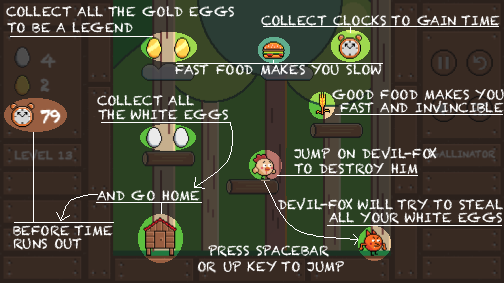
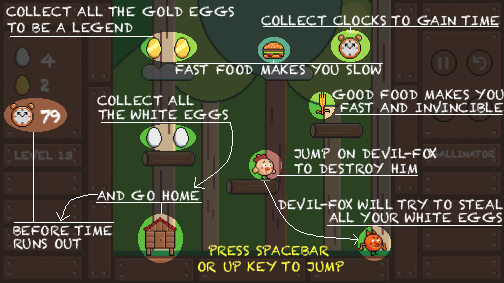
ok

Changed region(s): [[0.3869, 0.8481, 0.6845, 0.9611]]

diff --git a/scripts/game.js b/scripts/game.js
@@ -556,8 +556,11 @@ window.addEventListener("load",function() {
             x: Q.width/2, y: Q.height/2,w:Q.width,h:Q.height, fill: "rgba(0,0,0,0.8)"
           }));
 
-
-          var image = container.insert(new Q.Sprite({asset:"howtoplay.png",x:0, y: 0}));
+          if (Q.touchDevice){
+            var image = container.insert(new Q.Sprite({asset:"howtoplaymobile.png",x:0, y: 0}));
+          }else{
+            var image = container.insert(new Q.Sprite({asset:"howtoplay.png",x:0, y: 0}));
+          }
           //console.log("hola");
           //var buttonPause = container.insert(new Q.UI.Button({ asset:"gallinafrozenpause.png",x: 2, y: 2, family:"courier",align:"center",scale:5}));
           var buttonClose = container.insert(new Q.UI.Button({ asset:"close.png" ,x: 228, y: -79}));
@@ -657,7 +660,7 @@ window.addEventListener("load",function() {
     Q.load("gallinafrozen.png,muelle.png,muelle.json,portada.png,nextlevelgood.png,nextlevelsuper.png,nextlevellose.png,hudegg.png,tickegg.png,hudreloj.png,hudegggolden.png,egggolden.png,egggolden.json,egg.png,egg.json,extras.png,extras.json,pause.png,restart.png,mute.png,unmute.png,muteMusic.png,play.png,next.png,maderabackground.png,gallina.png,gallina.json,   home.png,home.json,levels.png,choselevel.png,close.png,changeDirection.png,changeDirection.json,loseEggs.png,loseEggs.json,zorro.png,zorro.json,plataformas.png,plataformas.json");
     Q.load("frozen.mp3,eat.mp3,supersalto.mp3,egg.mp3,salto.mp3,egggolden.mp3,home.mp3,clock.mp3,changeDirection.mp3,loseEggs.mp3,fox.mp3,ohh.mp3");
     Q.load("papageno.mp3,papagenofast.mp3");
-    Q.loadTMX("howtoplay.png,howbutton.png,level1.tmx,level2.tmx,level3.tmx,level4.tmx,level5.tmx,level6.tmx,level7.tmx,level8.tmx,level9.tmx,level10.tmx,level11.tmx,level12.tmx,level13.tmx,level14.tmx,level15.tmx,level16.tmx,level17.tmx,level18.tmx,level19.tmx,level20.tmx,background1-1.png,background2-1.png,background3-1.png,background4-1.png,background1-2.png,background2-2.png,background3-2.png,background4-2.png,background1-3.png,background2-3.png,background3-3.png,background4-3.png,background1-4.png,background2-4.png,background3-4.png,background4-4.png,background1-5.png,background2-5.png,background3-5.png,background4-5.png,background1-6.png,background2-6.png,background3-6.png,background4-6.png,background1-7.png,background2-7.png,background3-7.png,background4-7.png,background1-8.png,background2-8.png,background3-8.png,background4-8.png,background1-9.png,background2-9.png,background3-9.png,background4-9.png,background1-10.png,background2-10.png,background3-10.png,background4-10.png,background1-11.png,background2-11.png,background3-11.png,background4-11.png,background1-12.png,background2-12.png,background3-12.png,background4-12.png,background1-13.png,background2-13.png,background3-13.png,background4-13.png,background1-14.png,background2-14.png,background3-14.png,background4-14.png,background1-15.png,background2-15.png,background3-15.png,background4-15.png,background1-16.png,background2-16.png,background3-16.png,background4-16.png,background1-17.png,background2-17.png,background3-17.png,background4-17.png,background1-18.png,background2-18.png,background3-18.png,background4-18.png,background1-19.png,background2-19.png,background3-19.png,background4-19.png,background1-20.png,background2-20.png,background3-20.png,background4-20.png", function() {
+    Q.loadTMX("howtoplay.png,howtoplaymobile.png,howbutton.png,level1.tmx,level2.tmx,level3.tmx,level4.tmx,level5.tmx,level6.tmx,level7.tmx,level8.tmx,level9.tmx,level10.tmx,level11.tmx,level12.tmx,level13.tmx,level14.tmx,level15.tmx,level16.tmx,level17.tmx,level18.tmx,level19.tmx,level20.tmx,background1-1.png,background2-1.png,background3-1.png,background4-1.png,background1-2.png,background2-2.png,background3-2.png,background4-2.png,background1-3.png,background2-3.png,background3-3.png,background4-3.png,background1-4.png,background2-4.png,background3-4.png,background4-4.png,background1-5.png,background2-5.png,background3-5.png,background4-5.png,background1-6.png,background2-6.png,background3-6.png,background4-6.png,background1-7.png,background2-7.png,background3-7.png,background4-7.png,background1-8.png,background2-8.png,background3-8.png,background4-8.png,background1-9.png,background2-9.png,background3-9.png,background4-9.png,background1-10.png,background2-10.png,background3-10.png,background4-10.png,background1-11.png,background2-11.png,background3-11.png,background4-11.png,background1-12.png,background2-12.png,background3-12.png,background4-12.png,background1-13.png,background2-13.png,background3-13.png,background4-13.png,background1-14.png,background2-14.png,background3-14.png,background4-14.png,background1-15.png,background2-15.png,background3-15.png,background4-15.png,background1-16.png,background2-16.png,background3-16.png,background4-16.png,background1-17.png,background2-17.png,background3-17.png,background4-17.png,background1-18.png,background2-18.png,background3-18.png,background4-18.png,background1-19.png,background2-19.png,background3-19.png,background4-19.png,background1-20.png,background2-20.png,background3-20.png,background4-20.png", function() {
       Q.compileSheets("plataformas.png","plataformas.json");
       Q.compileSheets("gallina.png","gallina.json");
       Q.compileSheets("zorro.png","zorro.json");
